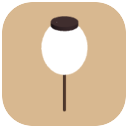
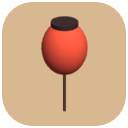
[feat] The six later bosses get figures of their own; arms and steam show what casts them; season maps get petals, leaves and confetti
Bosses: the playground's captain (cap, striped shirt), the giant squid, the hot-spring raccoon dog (straw hat,
lantern), the night market's vendor (apron, paper lantern), the airport marshal (helmet, glowing wands) and the
station's rover (wheels, solar panel, searchlight) were all drawn as the keeper.
Rule pictures: the last patch of an arm carries the crane's hook, the clock or the swing's seat; mist patches
carry a puff of steam.
Season maps: what drifts down in play is the season's (`fall`, two colors): pink petals on the cherry garden,
orange leaves on the autumn campus, gold confetti at New Year, and so on; none for the picnic and the summer beach.
The lantern's book picture and the night market's map picture take the lantern's color (its lamp was a glow part,
which the icon tool draws white).

E2E W29: pictures on the arm and mist maps; positions compared in hundredths, since the clock hand and the blimp
barely move in a moment on a busy machine.

Changed region(s): [[0.3125, 0.1875, 0.6875, 0.5938]]

diff --git a/www/stages.js b/www/stages.js
@@ -316,25 +316,26 @@
     }),
   });
 
-  // Season maps: a ladder map dressed for the season (its name, ground and roofs), played only through its event.
+  // Season maps: a ladder map dressed for the season (its name, ground and roofs, and what drifts down through the
+  // air: `fall`, two colors of petals, leaves or confetti), played only through its event.
   // `theme` stays the map it is made of (`base`), so it is built, drawn, pictured and ruled exactly as that map is, and
   // what is swallowed there counts for that map's page of the book.
   const season = (base, o) => Object.assign({}, THEMES[base], o, { event: true, base });
   Object.assign(THEMES, {
     valentine: season('market', { name: '밸런타인 시장', desc: '분홍 리본과 초콜릿 가게가 늘어선 시장이에요. 달콤한 냄새가 골목마다 가득해요.',
-      ground: ['#ffd6e4', '#ffe8f0', '#ff9ab8'], roofs: ['#ff8fb0', '#fff4f8', '#ffc2d4', '#d04f7a'] }),
+      ground: ['#ffd6e4', '#ffe8f0', '#ff9ab8'], roofs: ['#ff8fb0', '#fff4f8', '#ffc2d4', '#d04f7a'], fall: ['#ff8fb0', '#ffd6e4'] }),
     cherry: season('oasis', { name: '벚꽃 정원', desc: '벚꽃이 활짝 핀 도심 정원이에요. 꽃그늘이 연분홍으로 물들었어요.',
-      ground: ['#ffe1ec', '#fff0f5', '#f5b5cc'], roofs: ['#f7b8d0', '#fff4f8', '#e8a0c0', '#d9c6e8'] }),
+      ground: ['#ffe1ec', '#fff0f5', '#f5b5cc'], roofs: ['#f7b8d0', '#fff4f8', '#e8a0c0', '#d9c6e8'], fall: ['#ffb7d5', '#fff0f5'] }),
     picnic: season('farm', { name: '봄소풍 들판', desc: '돗자리와 도시락이 펼쳐진 봄 들판이에요. 바람이 살랑살랑 불어요.',
       ground: ['#d8ecb0', '#eef6d8', '#f0d890'], roofs: ['#f0cf6a', '#fff8e0', '#b8e08a', '#e8a066'] }),
     summer: season('beach', { name: '여름휴가 해변', desc: '튜브와 파라솔이 가득한 한여름 바닷가예요. 해가 뜨거우니 그늘을 잘 골라요.',
       roofs: ['#7fd6ff', '#ffffff', '#ffd45e', '#ff9aa8'] }),
     autumn: season('campus', { name: '단풍 캠퍼스', desc: '은행잎과 단풍이 내려앉은 가을 캠퍼스예요. 낙엽 밟는 소리가 사박사박 나요.',
-      ground: ['#f0c890', '#f6e2c0', '#e08a4a'], roofs: ['#b5562a', '#d98a3a', '#8a4a2a', '#e8c06a'] }),
+      ground: ['#f0c890', '#f6e2c0', '#e08a4a'], roofs: ['#b5562a', '#d98a3a', '#8a4a2a', '#e8c06a'], fall: ['#e8762a', '#f2c14e'] }),
     halloween: season('town', { name: '할로윈 마을', desc: '호박등이 켜진 보랏빛 마을이에요. 사탕을 든 아이들이 골목을 돌아다녀요.',
-      ground: ['#b9a0d0', '#cdb8e0', '#e08a3a'], roofs: ['#4a2a7a', '#e8762a', '#2a2433', '#7a4fd0'] }),
+      ground: ['#b9a0d0', '#cdb8e0', '#e08a3a'], roofs: ['#4a2a7a', '#e8762a', '#2a2433', '#7a4fd0'], fall: ['#e8762a', '#b58cff'] }),
     newyear: season('city', { name: '새해 도심', desc: '새해 장식이 반짝이는 빌딩숲이에요. 밤이 오면 불꽃놀이가 시작될 것 같아요.',
-      ground: ['#d8d0f0', '#e6e0f8', '#ffd45e'], roofs: ['#2a2a5a', '#ffd45e', '#5b4290', '#f4f1ea'] }),
+      ground: ['#d8d0f0', '#e6e0f8', '#ffd45e'], roofs: ['#2a2a5a', '#ffd45e', '#5b4290', '#f4f1ea'], fall: ['#ffd45e', '#ffffff'] }),
   });
 
   // Limited-time events, judged by the device date. [month, day] bounds are inclusive and may wrap the new year.
@@ -392,7 +393,8 @@
   //   blimp    one huge patch drifting slowly round the map                copter   two patches circling fast and wide
   //   traffic  rows going across and columns going down, like buses        mist     patches that swell and shrink
   //   kite     patches flying figures of eight                             beam     nothing new: it names what the map already has
-  // `icon` (and `sky`: it flies) is what casts the shade, drawn on each patch by render3d (CASTER_ART).
+  // `icon` (and `sky`: it flies) is what casts the shade, drawn on each patch by render3d (CASTER_ART); `tip`: only
+  // the last patch of an arm carries a picture (the crane's hook, the clock, the swing's seat).
   // The first map has none: it is where the plain rules are learned.
   const RULES = {
     park: { kind: 'wheel', icon: 'car', name: '대관람차 그림자', text: '커다란 대관람차 그림자가 빙글빙글 돌아요. 그림자를 따라 같이 돌아요!' },
@@ -401,16 +403,16 @@
     market: { kind: 'awning', icon: 'awning', name: '여닫는 차양', text: '가게 차양이 펼쳐졌다 접혔다 해요. 펼쳐진 차양 아래가 그늘이에요!' },
     beach: { kind: 'awning', icon: 'parasol', name: '파라솔', text: '파라솔이 펴졌다 접혔다 해요. 펴진 파라솔 밑으로 옮겨 다녀요!' },
     snow: { kind: 'blizzard', name: '눈보라', text: '가끔 눈보라가 몰아쳐 해를 가려요. 그동안은 어디든 갈 수 있어요!' },
-    construction: { kind: 'arm', arms: 2, name: '크레인 팔', text: '크레인 두 대가 팔을 천천히 휘둘러요. 긴 팔 그림자를 따라 돌아요!' },
-    campus: { kind: 'arm', arms: 1, name: '시계탑 그림자', text: '시계탑 그림자가 시곗바늘처럼 한 바퀴 돌아요. 바늘 그림자를 놓치지 말아요!' },
+    construction: { kind: 'arm', arms: 2, tip: 'hook', name: '크레인 팔', text: '크레인 두 대가 팔을 천천히 휘둘러요. 긴 팔 그림자를 따라 돌아요!' },
+    campus: { kind: 'arm', arms: 1, tip: 'clock', name: '시계탑 그림자', text: '시계탑 그림자가 시곗바늘처럼 한 바퀴 돌아요. 바늘 그림자를 놓치지 말아요!' },
     stadium: { kind: 'blimp', icon: 'blimp', sky: true, name: '중계 비행선', text: '커다란 비행선이 광장 위를 천천히 돌아요. 비행선 그림자는 넓고 느긋해요!' },
     city: { kind: 'copter', icon: 'copter', sky: true, name: '방송 헬리콥터', text: '헬리콥터 두 대가 빌딩 위를 빠르게 돌아요. 재빨리 그림자에 올라타요!' },
     crossing: { kind: 'traffic', icon: 'bus', name: '버스 행렬', text: '버스가 가로로, 세로로 줄지어 지나가요. 버스 그림자를 갈아타며 건너요!' },
-    oasis: { kind: 'mist', name: '분수 물안개', text: '분수 물안개가 커졌다 작아졌다 해요. 안개가 퍼질 때 멀리 나가요!' },
+    oasis: { kind: 'mist', icon: 'steam', name: '분수 물안개', text: '분수 물안개가 커졌다 작아졌다 해요. 안개가 퍼질 때 멀리 나가요!' },
     hanok: { kind: 'kite', icon: 'kite', sky: true, name: '연 그림자', text: '하늘의 연이 8자를 그리며 날아요. 연 그림자를 따라 춤추듯 움직여요!' },
-    playground: { kind: 'arm', arms: 2, name: '그네 그림자', text: '커다란 그네 두 개가 그림자를 크게 휘저어요. 그네 그림자에 맞춰 뛰어요!' },
+    playground: { kind: 'arm', arms: 2, tip: 'swing', name: '그네 그림자', text: '커다란 그네 두 개가 그림자를 크게 휘저어요. 그네 그림자에 맞춰 뛰어요!' },
     aquarium: { kind: 'caravan', icon: 'whale', sky: true, name: '고래 그림자', text: '머리 위 수조로 고래 떼가 헤엄쳐 지나가요. 고래 그림자를 타고 건너요!' },
-    onsen: { kind: 'mist', name: '온천 김', text: '온천 김이 뭉게뭉게 피어올랐다 잦아들어요. 김이 짙을 때 멀리 나가요!' },
+    onsen: { kind: 'mist', icon: 'steam', name: '온천 김', text: '온천 김이 뭉게뭉게 피어올랐다 잦아들어요. 김이 짙을 때 멀리 나가요!' },
     nightmarket: { kind: 'awning', icon: 'lantern', name: '천막과 연등', text: '가게 천막이 펼쳐졌다 접혔다 해요. 연등 아래 천막 그늘로 옮겨 다녀요!' },
     airport: { kind: 'caravan', icon: 'plane', sky: true, v: 70, name: '비행기 그림자', text: '비행기가 줄지어 낮게 날아가요. 빠르게 지나가는 그림자를 놓치지 말아요!' },
     space: { kind: 'kite', icon: 'ufo', sky: true, name: '떠도는 위성', text: '위성이 8자를 그리며 정거장 위를 돌아요. 위성 그림자를 따라 움직여요!' },

diff --git a/www/render3d.js b/www/render3d.js
@@ -111,7 +111,7 @@
     penguin:   [P('capsule', [0.5, 0.5, 0.5], 0.8, 'inst'), P('sphere', [0.36, 0.6, 0.2], 0.85, '#f4f6fa', [0.3, 0]), P('sphere', [0.16, 0.1, 0.16], 1.5, '#f2a03a', [0.42, 0])],
     bather:    [P('cyl', [1.3, 0.7, 1.3], 0.35, 'inst'), P('cyl', [1.15, 0.06, 1.15], 0.72, '#9fd8e8'), P('sphere', [0.5, 0.5, 0.5], 1.05, SKIN), P('box', [0.6, 0.12, 0.5], 1.4, '#f4f6fa')],
     bucket:    [P('cyl', [0.7, 0.8, 0.7], 0.4, 'inst'), P('cyl', [0.6, 0.05, 0.6], 0.82, '#9fd8e8')],
-    lantern:   [P('cyl', [0.05, 2.2, 0.05], 1.1, '#5a4030'), P('sphere', [0.7, 0.85, 0.7], 2.4, 'inst', undefined, true), P('cyl', [0.4, 0.12, 0.4], 3.2, '#3a2a2a')],
+    lantern:   [P('cyl', [0.05, 2.2, 0.05], 1.1, '#5a4030'), P('sphere', [0.7, 0.85, 0.7], 2.4, 'inst'), P('cyl', [0.4, 0.12, 0.4], 3.2, '#3a2a2a')],
     suitcase:  [P('box', [1.0, 1.3, 0.5], 0.75, 'inst'), P('box', [0.5, 0.5, 0.08], 1.65, '#3a3a44')],
     pilot:     human(HAIR, [P('cyl', [0.62, 0.2, 0.62], 2.95, '#1f2a50')]),
     kid:       [P('capsule', [0.45, 0.4, 0.45], 0.75, 'inst'), P('sphere', [0.5, 0.5, 0.5], 1.85, SKIN), P('sphere', [0.52, 0.3, 0.52], 2.05, HAIR)],
@@ -877,6 +877,13 @@
         g.fillStyle = '#7fd6ff'; g.fillRect(16, 58, 14, 8); },
       lantern(g) { g.fillStyle = '#3a2a2a'; g.fillRect(58, 4, 12, 16); g.fillStyle = '#e8523a'; g.beginPath(); g.ellipse(64, 62, 40, 46, 0, 0, 7); g.fill(); g.fillStyle = '#ffd45e'; g.beginPath(); g.ellipse(64, 62, 14, 46, 0, 0, 7); g.fill();
         g.fillStyle = '#3a2a2a'; g.fillRect(48, 104, 32, 10); },
+      steam(g) { g.fillStyle = 'rgba(255,255,255,.85)'; for (const [x, y, r] of [[44, 82, 26], [78, 78, 30], [60, 52, 26], [86, 44, 18], [38, 40, 14]]) { g.beginPath(); g.arc(x, y, r, 0, 7); g.fill(); } },
+      hook(g) { g.strokeStyle = '#f2c14e'; g.lineWidth = 12; g.lineCap = 'round'; g.beginPath(); g.moveTo(64, 6); g.lineTo(64, 60); g.stroke();
+        g.beginPath(); g.arc(64, 84, 24, -Math.PI / 2, Math.PI * 0.9); g.stroke(); g.fillStyle = '#3a2860'; g.fillRect(48, 2, 32, 12); },
+      clock(g) { g.fillStyle = '#f4f1ea'; g.beginPath(); g.arc(64, 64, 52, 0, 7); g.fill(); g.strokeStyle = '#5b4290'; g.lineWidth = 8; g.beginPath(); g.arc(64, 64, 52, 0, 7); g.stroke();
+        g.lineCap = 'round'; g.beginPath(); g.moveTo(64, 64); g.lineTo(64, 28); g.moveTo(64, 64); g.lineTo(90, 74); g.stroke(); },
+      swing(g) { g.strokeStyle = '#8fd3e8'; g.lineWidth = 6; g.beginPath(); g.moveTo(40, 4); g.lineTo(34, 88); g.moveTo(88, 4); g.lineTo(94, 88); g.stroke();
+        g.fillStyle = '#e2674f'; g.beginPath(); g.roundRect(24, 86, 80, 16, 8); g.fill(); },
       car(g) { g.fillStyle = '#ffa6ec'; g.beginPath(); g.roundRect(26, 46, 76, 60, 18); g.fill(); g.fillStyle = '#e6f8ff'; g.fillRect(38, 58, 52, 22); g.fillStyle = '#5b4290'; g.fillRect(60, 14, 8, 34); g.beginPath(); g.arc(64, 14, 9, 0, 7); g.fill(); },
     };
     const casterTex = {}, casterOf = icon => casterTex[icon] || (casterTex[icon] = (() => {
@@ -1410,6 +1417,30 @@
           M('sphere', '#c9a86a', [4.2, 4.6, 4.2], [0, 25, 0]); M('box', DARK, [0.8, 0.8, 4], [3.9, 23.2, 0]);
           M('cyl', '#b08d3a', [7, 0.6, 7], [0, 28.8, 0]); M('cone', '#b08d3a', [4, 4, 4], [0, 31, 0]);
           M('box', '#ffd23f', [2, 2.6, 2], [3, 15.5, 11], true); eyes('#ffd23f', 3.8, 26, 1.6, 0.9); break;
+        case 'captain': // the playground's boss kid: a cap with its brim forward, a striped shirt, a flashlight
+          M('cyl', color, [5, 14, 5], [0, 7, 0]); M('cyl', '#f4f1ea', [5.2, 2, 5.2], [0, 9, 0]); M('sphere', SKIN, [5, 5, 5], [0, 19, 0]);
+          M('cyl', '#e2674f', [5.3, 1.8, 5.3], [0, 22.6, 0]); M('box', '#e2674f', [4.5, 0.6, 5], [4.5, 22, 0]);
+          M('box', '#ffd23f', [6, 2.4, 2.4], [7, 12, 0], true); eyes('#ffffff', 4.4, 19.6, 1.7, 0.9); break;
+        case 'squid': // a giant squid: a tall mantle with a pointed top, four arms, big pale eyes, a glowing lure
+          M('sphere', color, [6, 9, 6], [0, 19, 0]); M('cone', color, [5, 7, 5], [0, 29, 0]);
+          for (const [x, z] of [[2.6, 2.6], [2.6, -2.6], [-2.6, 2.6], [-2.6, -2.6]]) M('cyl', color, [1.3, 11, 1.3], [x, 5.5, z]);
+          M('sphere', '#ffd23f', [2.2, 2.2, 2.2], [7.5, 14, 0], true); eyes('#fff3b0', 5.3, 19, 2.5, 1.5); break;
+        case 'tanuki': // a round raccoon dog: pale belly, dark ears, a straw hat, a paper lantern
+          M('sphere', color, [7, 8, 7], [0, 8, 0]); M('sphere', '#e8d8b8', [3, 6, 5], [4.6, 8, 0]); M('sphere', color, [5.5, 5, 5.5], [0, 19, 0]);
+          M('sphere', DARK, [1.7, 1.7, 1.7], [0, 23.4, 3.3]); M('sphere', DARK, [1.7, 1.7, 1.7], [0, 23.4, -3.3]); M('cone', '#d9b24c', [7.5, 3, 7.5], [0, 25, 0]);
+          M('box', '#ffd23f', [2.4, 3.2, 2.4], [7, 12, 6], true); eyes('#ffffff', 5, 19.6, 2, 1); break;
+        case 'hawker': // the night market's big vendor: a white apron and headband, a round paper lantern on a pole
+          M('cyl', color, [6.5, 16, 6.5], [0, 8, 0]); M('box', '#f4f1ea', [1, 10, 8], [6.3, 8, 0]); M('sphere', SKIN, [5, 5, 5], [0, 21, 0]);
+          M('cyl', '#f4f1ea', [5.2, 1.3, 5.2], [0, 23.2, 0]); M('cyl', '#6b4a2b', [0.6, 12, 0.6], [8, 10, 0]);
+          M('sphere', '#ff7a3a', [3.2, 3.8, 3.2], [8, 17.5, 0], true); eyes(DARK, 4.4, 21.4, 1.7, 0.8); break;
+        case 'marshal': // the airport's ground marshal: a vest with a pale band, a white helmet, a glowing wand in each hand
+          M('cyl', color, [5, 16, 5], [0, 8, 0]); M('cyl', '#f4f1ea', [5.2, 1.5, 5.2], [0, 10.5, 0]); M('sphere', SKIN, [4.6, 4.6, 4.6], [0, 21, 0]);
+          M('sphere', '#f4f1ea', [5, 3, 5], [0, 23.6, 0]); M('box', '#ff5d3a', [1.3, 1.3, 7], [2, 16, 8.5], true); M('box', '#ff5d3a', [1.3, 1.3, 7], [2, 16, -8.5], true);
+          eyes(DARK, 4.1, 21.2, 1.6, 0.8); break;
+        case 'rover': // the station's rover: a body on four wheels, a solar panel, a mast with a camera head and a searchlight
+          M('box', color, [10, 5, 8], [0, 5.5, 0]); for (const [x, z] of [[4, 4.8], [4, -4.8], [-4, 4.8], [-4, -4.8]]) M('sphere', DARK, [2.6, 2.6, 1.6], [x, 2.6, z]);
+          M('box', '#3a4a8a', [8, 0.5, 6.5], [-3, 9, 0]); M('cyl', '#c8d0e8', [0.8, 10, 0.8], [1, 13, 0]); M('box', '#e8ecf5', [4, 3, 5.4], [1, 19, 0]);
+          M('box', '#7fe8ff', [1, 2, 3.6], [3.4, 19, 0], true); eyes('#7fe8ff', 3.1, 19.6, 1.7, 0.8); break;
         default: // keeper (the original): tall violet coat, a head, a hand lamp
           M('cyl', color, [5, 18, 5], [0, 9, 0]); M('sphere', SKIN, [4.5, 4.5, 4.5], [0, 22, 0]); M('box', '#ffd23f', [6, 3, 3], [7, 14, 0], true);
       }

diff --git a/www/index.html b/www/index.html
@@ -123,6 +123,11 @@
   #snow { position: fixed; inset: -60px 0 0 0; pointer-events: none; z-index: 3; opacity: .8;
     background-image: radial-gradient(circle, rgba(255,255,255,.95) 0 1.6px, transparent 2.4px), radial-gradient(circle, rgba(255,255,255,.7) 0 1.1px, transparent 1.8px);
     background-size: 90px 90px, 57px 57px; background-position: 0 0, 30px 20px; animation: snowfall 7s linear infinite; }
+  /* a season map's own weather: petals, leaves or confetti in the season's two colors (stages.js `fall`), drifting down slantwise */
+  #fall { position: fixed; inset: -60px 0 0 0; pointer-events: none; z-index: 3; opacity: .85;
+    background-image: radial-gradient(ellipse 3.4px 2.2px, var(--f1) 0 98%, transparent), radial-gradient(ellipse 2.6px 1.8px, var(--f2) 0 98%, transparent);
+    background-size: 110px 110px, 71px 71px; background-position: 0 0, 30px 20px; animation: petalfall 9s linear infinite; }
+  @keyframes petalfall { to { background-position: 110px 770px, -71px 497px; } }
   @keyframes snowfall { to { background-position: 24px 630px, -18px 399px; } }
   /* state particles at the body (always mid-screen): green smoke while poisoned, cyan glints while fast */
   #burst i.smoke { border-radius: 50%; filter: blur(1px); animation: smoke 1.1s ease-out forwards; }
@@ -588,6 +593,7 @@
 <div id="vignette" class="hidden"></div>
 <div id="rain" class="hidden"></div>
 <div id="snow" class="hidden"></div>
+<div id="fall" class="hidden"></div>
 <div id="streak" class="hidden"></div>
 <div id="hitcount"></div>
 <div id="no3d" class="overlay hidden">
@@ -1186,6 +1192,12 @@
   // The map's own rule (stages.js RULES): shade only this map has. The patches of shade ride in `clouds` (marked
   // `rule`), so they shade, show and count exactly as cloud shade does; the blizzard hides the sun like a dark event.
   let blizzard = false;
+  // a season map's falling petals, leaves or confetti (stages.js `fall`): part of the world like the snow, so only in play
+  function fallShow(on) {
+    const f = on && stage && stage.fall, el = $('fall');
+    el.classList.toggle('hidden', !f);
+    if (f) { el.style.setProperty('--f1', f[0]); el.style.setProperty('--f2', f[1]); }
+  }
   const BLIZZARD = { every: 24, first: 10, secs: 6 }, AWNING = { cycle: 11, open: 6.5 };
   function ruleStart() {
     blizzard = false;
@@ -1197,7 +1209,7 @@
       for (let k = 0; k < 5; k++) add({ row: waterY * fy, at: rnd() * 400 + k * 96, v: (r.v || 30) * dir, r: 50 }); // r.v: a faster row (the airport's planes)
     if (r.kind === 'arm') for (let n = 0; n < r.arms; n++) { // each arm: five patches in a line from its foot, turning together
       const cx = WORLD * (r.arms === 1 ? 0.5 : [0.3, 0.7][n]), cy = waterY * (r.arms === 1 ? 0.5 : [0.4, 0.6][n]), reach = r.arms === 1 ? 105 : 80;
-      for (let k = 0; k < 5; k++) add({ kind2: 'arm', cx, cy, R: 70 + k * reach, a: n * 2.1, w: (r.arms === 1 ? 0.1 : 0.16) * (n ? -1 : 1), r: 46 + k * 4 });
+      for (let k = 0; k < 5; k++) add({ icon: k === 4 ? r.tip || null : null, cx, cy, R: 70 + k * reach, a: n * 2.1, w: (r.arms === 1 ? 0.1 : 0.16) * (n ? -1 : 1), r: 46 + k * 4 });
     }
     if (r.kind === 'blimp') add({ cx: WORLD / 2, cy: waterY / 2, R: Math.min(WORLD, waterY) * 0.28, a: rnd() * 6.28, w: 0.06, r: 175 });
     if (r.kind === 'copter') for (let k = 0; k < 2; k++) add({ cx: WORLD / 2, cy: waterY / 2, R: Math.min(WORLD, waterY) * 0.33, a: k * Math.PI, w: 0.34, r: 78 });
@@ -1629,6 +1641,7 @@
     ammo = 0; spits = []; renderAmmo();
     mapEvent = null; eventDone = false; runners = []; $('rain').classList.add('hidden');
     $('snow').classList.toggle('hidden', !(stage.look && stage.look.snow)); // it snows all run on winter maps
+    fallShow(true);
     shards = []; nextShard = C.SHARD.from; lastShardKind = null; fastUntil = bubbleUntil = magnetUntil = 0; dashTick = 0;
     clouds = stage.twist === 'clouds' ? Array.from({ length: 7 }, (_, k) => ({ x: rnd() * WORLD, y: rnd() * waterY, r: 70 + rnd() * 50 })) : [];
     tut = list === STAGES && i === 0 ? { i: 0, t: 0, moved: 0, lx: null, ly: null } : null;
@@ -2397,7 +2410,7 @@
   }
 
   function openSelect(scrollTo = false) {
-    state = 'menu'; $('snow').classList.add('hidden'); // the snowfall is part of the world, not of the menus
+    state = 'menu'; $('snow').classList.add('hidden'); fallShow(false); // the snowfall is part of the world, not of the menus
     const live = liveEvents();
     if (listKey !== 'main' && !live.some(ev => ev.id === listKey)) { useList('main'); selected = lastUnlocked(); page = Math.floor(selected / pageSize()); }
     const ev = EVENTS.find(e => e.id === listKey);
@@ -2533,7 +2546,7 @@
   }
 
   function offerContinue(got) {
-    state = 'cont'; $('snow').classList.add('hidden');
+    state = 'cont'; $('snow').classList.add('hidden'); fallShow(false);
     const n = got.filter(Boolean).length;
     $('cont-why').textContent = endedBy === 'hunger' ? '너무 오래 굶어서 집에 갔어요. 뭐든 계속 삼켜야 해요!'
       : stage.hard === 'super' ? '거대 등불지기를 삼켜야 깰 수 있어요.'
@@ -2551,7 +2564,7 @@
     continued = true;
     runDuration += CONTINUE_S; rush = false; Sound.music.rush(false);
     lastEat = elapsed; starving = false; starveT = 0; endedBy = null; // a fresh stomach for the extra time
-    state = 'play'; show(null); $('snow').classList.toggle('hidden', !(stage.look && stage.look.snow));
+    state = 'play'; show(null); $('snow').classList.toggle('hidden', !(stage.look && stage.look.snow)); fallShow(true);
   }
 
   let cheerNext = null, cheerTimer = 0; // the celebration step hands over to the details (endRun)
@@ -2564,7 +2577,7 @@
   }
 
   function endRun(got) {
-    $('snow').classList.add('hidden'); $('rain').classList.add('hidden');
+    $('snow').classList.add('hidden'); fallShow(false); $('rain').classList.add('hidden');
     state = 'end';
     const cleared = C.isCleared(stage, got);
     const n = cleared ? got.filter(Boolean).length : 0; // an uncleared hard level keeps no stars

diff --git a/test/e2e/twists.e2e.py b/test/e2e/twists.e2e.py
@@ -402,13 +402,13 @@ with sync_playwright() as p:
     # the harbor's rule names what it already has; the snow map's blizzard hides the sun
     themes = pg.evaluate("window.DuskStages.STAGES.map(s => s.theme)"); seen = {}
     want = {'park': [12, 'wheel', 12], 'desert': [15, 'caravan', 15], 'farm': [15, 'caravan', 15], 'market': [16, 'awning', 16], 'beach': [16, 'awning', 16],
-            'construction': [10, 'arm', 0], 'campus': [5, 'arm', 0], 'stadium': [1, 'blimp', 1], 'city': [2, 'copter', 2], 'crossing': [20, 'traffic', 20],
-            'oasis': [8, 'mist', 0], 'hanok': [6, 'kite', 6], 'harbor': [0, None, 0], 'town': [0, None, 0]}   # patches, kind, pictures
+            'construction': [10, 'arm', 2], 'campus': [5, 'arm', 1], 'stadium': [1, 'blimp', 1], 'city': [2, 'copter', 2], 'crossing': [20, 'traffic', 20],
+            'oasis': [8, 'mist', 8], 'hanok': [6, 'kite', 6], 'harbor': [0, None, 0], 'town': [0, None, 0]}   # patches, kind, pictures
     still = []
     for th in want:
         pg.evaluate(f"{A}.start({themes.index(th) + 2})"); frames_wait(pg, 4)
-        look = f"{A}.s.clouds.filter(c => c.rule).map(c => [c.rule, Math.round(c.x), Math.round(c.y), Math.round(c.r)])"
-        p0 = pg.evaluate(look); pg.wait_for_timeout(1300); p1 = pg.evaluate(look)
+        look = f"{A}.s.clouds.filter(c => c.rule).map(c => [c.rule, Math.round(c.x * 100), Math.round(c.y * 100), Math.round(c.r * 100)])"   # hundredths: the slow ones (the clock hand, the blimp) barely move in a moment on a busy machine
+        p0 = pg.evaluate(look); pg.wait_for_timeout(1300); frames_wait(pg, 6); p1 = pg.evaluate(look)
         shade = pg.evaluate(f"(() => {{ const a = {A}, on = a.s.clouds.filter(c => c.rule && c.x > 0 && c.r > 20); return on.every(c => a.isShaded({{ x: c.x, y: c.y }}) || a.inBeam(c.x, c.y)); }})()")
         seen[th] = [len(p0), p0[0][0] if p0 else None, pg.evaluate(f"{A}.R.debug.casters.filter(s => s.visible).length")]
         if p0 and (p0 == p1 or not shade) and th not in ('market', 'beach'): still.append(th)   # awnings stay put: they open and fold instead
